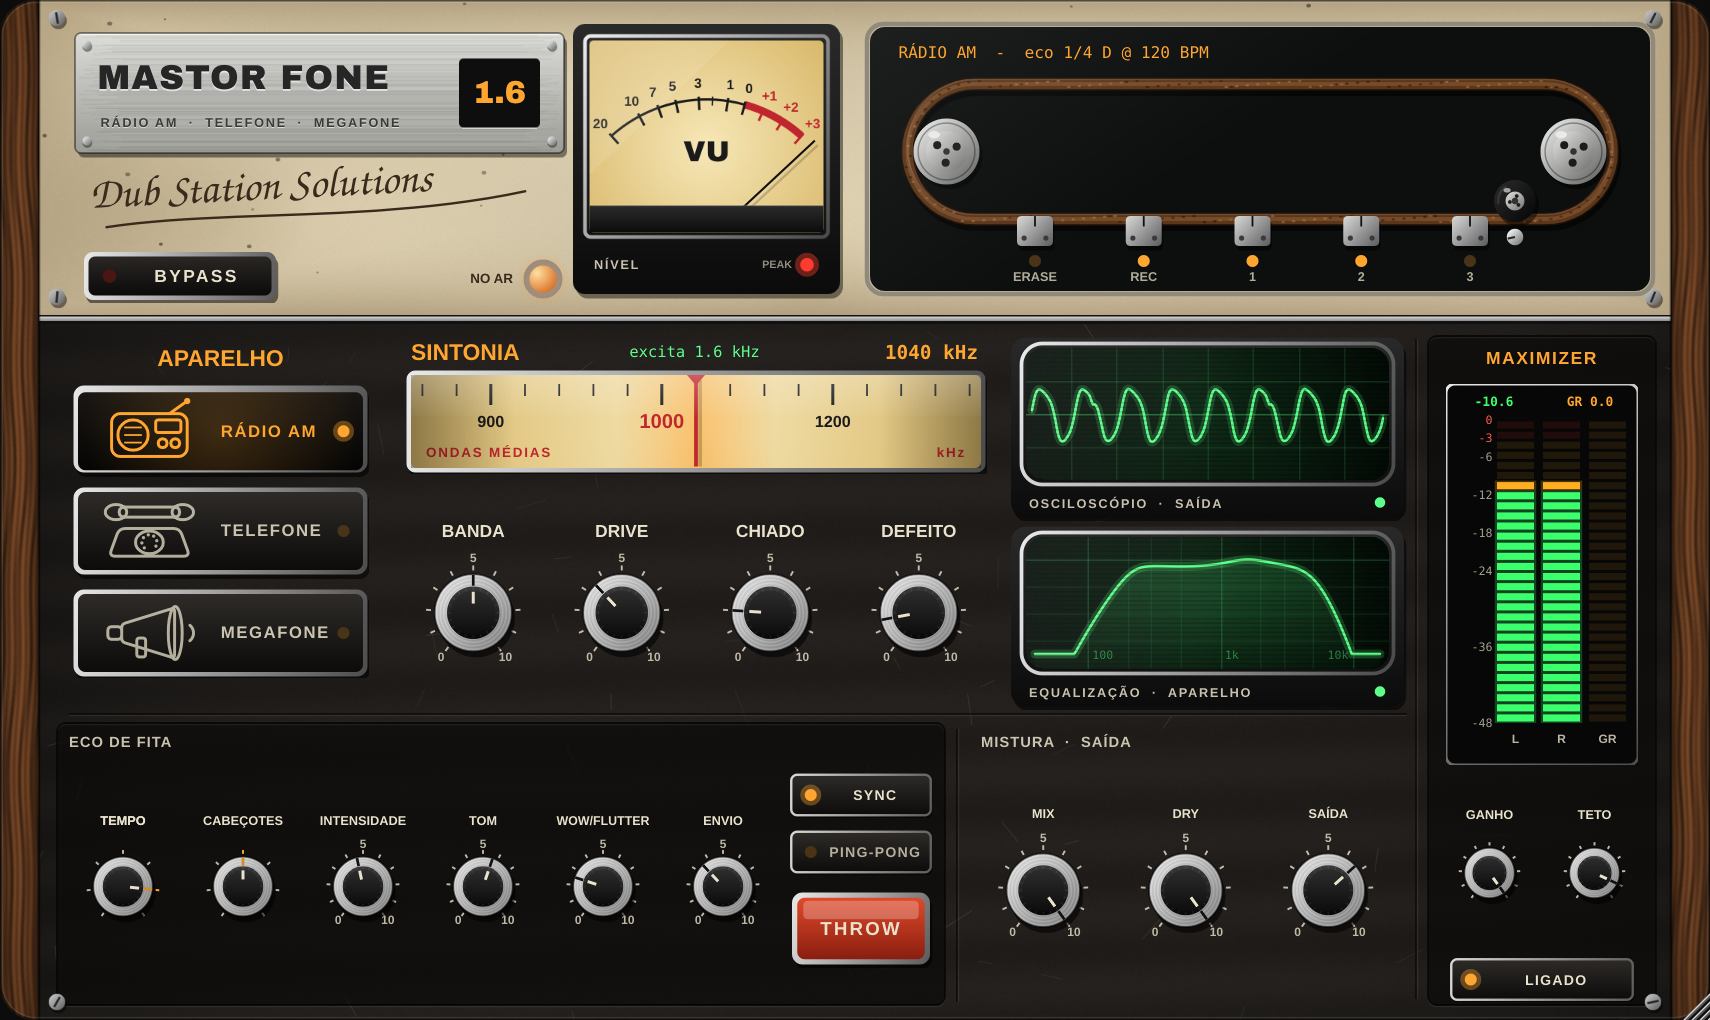
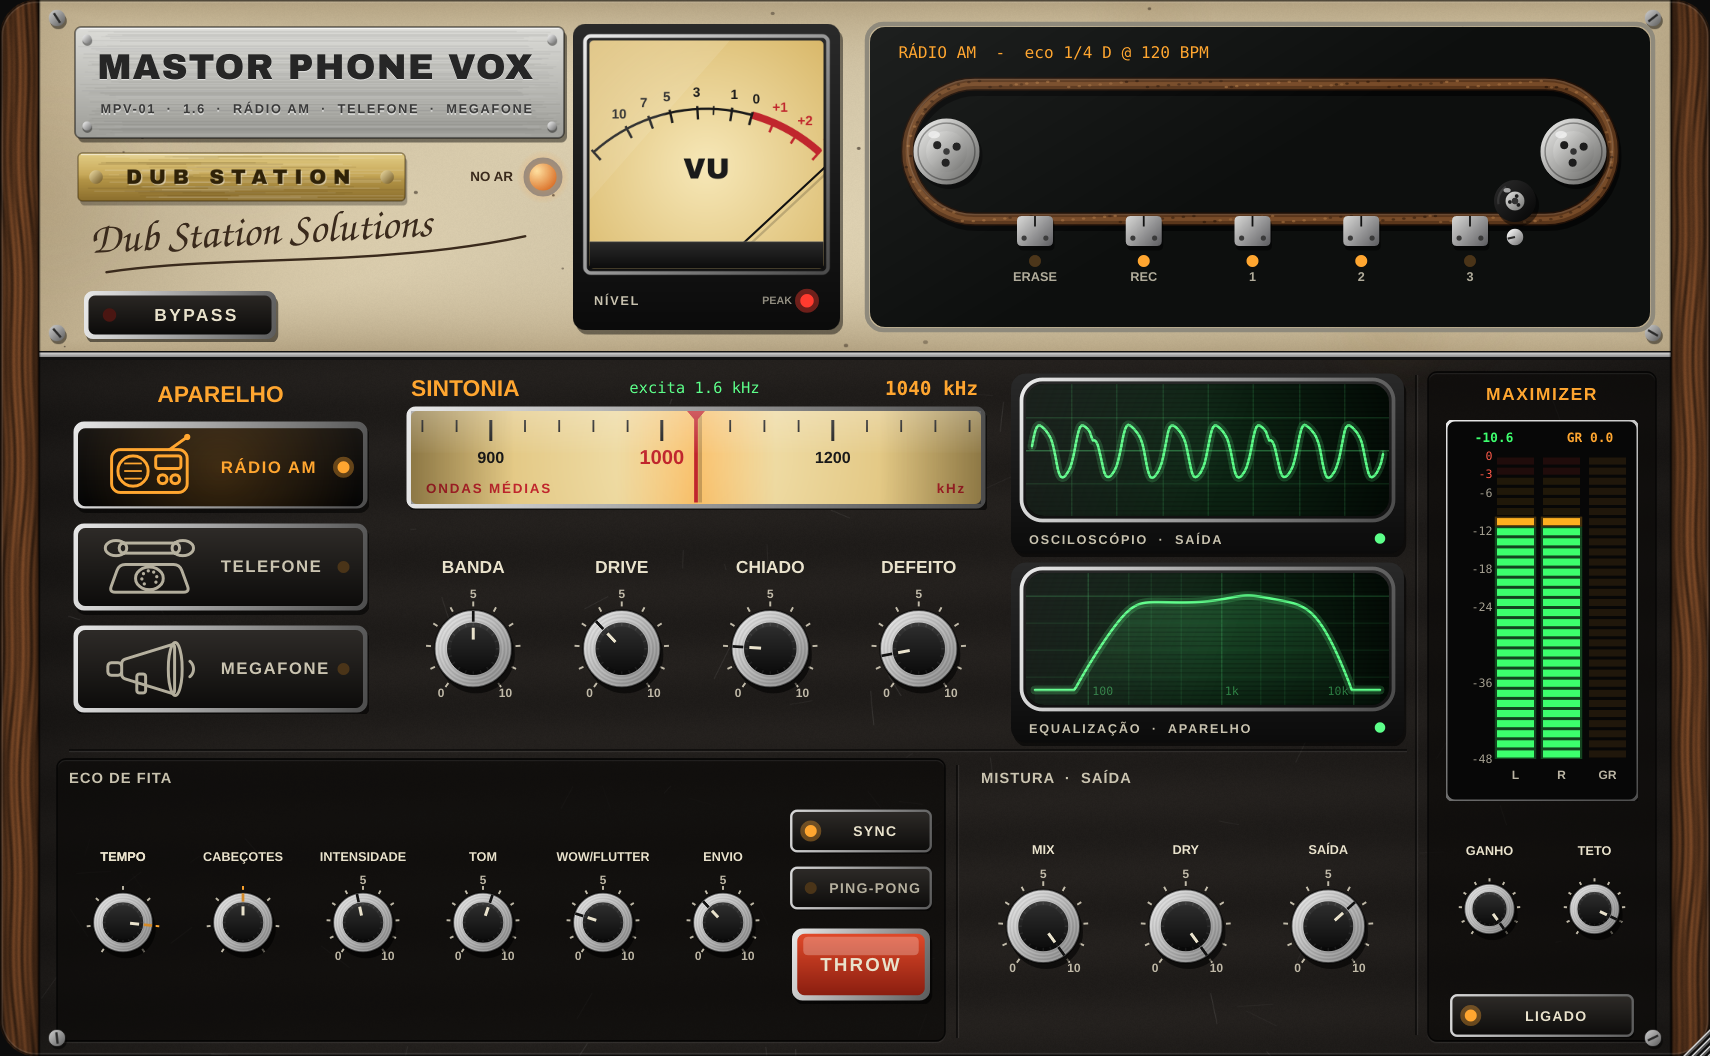
Mastor Phone Vox MPV-01 1.6 (antigo Mastor Fone)
- Novo nome do plugin, dos arquivos (.vst3/.component/.app) e dos zips
  (MastorPhoneVox-Windows/macOS.zip); release própria MPV-01-<versão>
- Códigos do plugin mantidos: projetos com o Mastor Fone abrem normalmente
- Plaqueta com o nome e MPV-01 · 1.6, plaquinha de latão DUB STATION
  (padrão da linha) e cabeçalho um pouco mais alto
- README e notas da release

Claude-Session: https://claude.ai/code/session_01DJAeyXvUbq8XtquW6CP987

diff --git a/MastorFone/Source/StationPanel.cpp b/MastorFone/Source/StationPanel.cpp
@@ -11,7 +11,8 @@ const Colour amber   (0xffffa630);
 const Colour lampOff (0xff4a3418);
 
 constexpr int kWood = 26;
-constexpr int kTopH = 212;
+constexpr const char* kVersion = "1.6";
+constexpr int kTopH = 236;
 
 // escala do VU: linear em tensão de -20 VU a +3 VU, ponteiro abrindo ±42°
 constexpr float kVuSwing = 0.7330f;
@@ -816,17 +817,17 @@ void StationPanel::resized()
 {
     auto content = getLocalBounds().reduced (kWood, 0);
     topPanel = content.removeFromTop (kTopH);
-    plateArea = { (float) topPanel.getX() + 24.0f, 22.0f, 326.0f, 80.0f };
+    plateArea = { (float) topPanel.getX() + 24.0f, 18.0f, 326.0f, 74.0f };
     {
         auto tp = topPanel;
         tp.removeFromLeft (350);
         vuArea = tp.removeFromLeft (190).reduced (6, 16);
         tapeWin = tp.reduced (14, 18);
     }
-    lampPos = { plateArea.getRight() - 14.0f, (float) topPanel.getBottom() - 26.0f };
+    lampPos = { plateArea.getRight() - 14.0f, plateArea.getBottom() + 26.0f };
     status.setBounds (tapeWin.getX() + 14, tapeWin.getY() + 8, tapeWin.getWidth() - 28, 18);
     // BYPASS grande no painel de cima, ao lado da lâmpada NO AR
-    bypassBtn.button.setBounds ((int) plateArea.getX() + 4, topPanel.getBottom() - 46, 132, 36);
+    bypassBtn.button.setBounds ((int) plateArea.getX() + 4, topPanel.getBottom() - 44, 132, 36);
 
     auto rows = content.reduced (8, 0).withTrimmedTop (10).withTrimmedBottom (8);
 
@@ -963,22 +964,24 @@ void StationPanel::paint (Graphics& g)
         g.setColour (c);
         g.drawText (t, r, j);
     };
-    g.setFont (mf::title (25.0f).withExtraKerningFactor (0.03f));
-    engraved ("MASTOR FONE", { pl.getX() + 15, pl.getY() + 10, pl.getWidth() - 86, 40 }, Justification::centredLeft, Colour (0xff262626));
+    // nome completo (a fonte encolhe até caber) + modelo e versão
+    {
+        const String title ("MASTOR PHONE VOX");
+        const float maxW = pl.getWidth() - 34.0f;
+        float fs = 27.0f;
+        while (fs > 14.0f && GlyphArrangement::getStringWidth (mf::title (fs).withExtraKerningFactor (0.03f), title) > maxW)
+            fs -= 0.5f;
+        g.setFont (mf::title (fs).withExtraKerningFactor (0.03f));
+        engraved (title, { pl.getX() + 15, pl.getY() + 9, maxW + 4, 36 }, Justification::centredLeft, Colour (0xff262626));
+    }
     g.setFont (bold (9.5f).withExtraKerningFactor (0.12f));
-    engraved (String::fromUTF8 ("RÁDIO AM  ·  TELEFONE  ·  MEGAFONE"), { pl.getX() + 17, pl.getY() + 53, pl.getWidth() - 96, 14 },
-              Justification::centredLeft, Colour (0xff3a3a3a));
-    const auto inset = Rectangle<float> (pl.getRight() - 70, pl.getY() + 17, 54, 46);
-    g.setFont (mf::title (23.0f));
-    g.setColour (amber.withAlpha (0.35f));
-    g.drawText ("1.6", inset.expanded (1.0f), Justification::centred);
-    g.setColour (amber);
-    g.drawText ("1.6", inset, Justification::centred);
+    engraved (String::fromUTF8 ("MPV-01  ·  ") + kVersion + String::fromUTF8 ("  ·  RÁDIO AM  ·  TELEFONE  ·  MEGAFONE"),
+              { pl.getX() + 17, pl.getY() + 48, pl.getWidth() - 30, 14 }, Justification::centredLeft, Colour (0xff3a3a3a));
 
     // assinatura "Dub Station Solutions" em tinta marrom, com traço
     {
         Graphics::ScopedSaveState ss (g);
-        const auto sp = Point<float> (pl.getX() + 10, pl.getBottom() + 4);
+        const auto sp = Point<float> (pl.getX() + 10, pl.getBottom() + 44);
         g.addTransform (AffineTransform::rotation (-0.05f, sp.x, sp.y + 26));
         g.setColour (ink);
         g.setFont (mf::script (38.0f));
@@ -1354,11 +1357,44 @@ void StationPanel::renderBackground()
             g.setGradientFill (ColourGradient (Colour (0xfff4f4f4), rv.x - 3, rv.y - 3, Colour (0xff6a6a6a), rv.x + 3, rv.y + 3, false));
             g.fillEllipse (rv.x - 3.0f, rv.y - 3.0f, 6.0f, 6.0f);
         }
-        const auto inset = Rectangle<float> (pl.getRight() - 70, pl.getY() + 17, 54, 46);
-        g.setColour (Colour (0xff0e0e0e));
-        g.fillRoundedRectangle (inset, 3.0f);
-        g.setColour (Colours::white.withAlpha (0.5f));
-        g.drawLine (inset.getX() + 2, inset.getBottom() + 0.5f, inset.getRight() - 2, inset.getBottom() + 0.5f, 1.0f);
+    }
+
+    {   // plaquinha de latão "DUB STATION", padrão da linha Dub Station
+        const auto pl = plateArea;
+        Random rng (77);
+        const auto f = mf::title (15.0f).withExtraKerningFactor (0.30f);
+        const String t ("DUB STATION");
+        const float tw = GlyphArrangement::getStringWidth (f, t);
+        auto gp = Rectangle<float> (pl.getX() + 2.0f, pl.getBottom() + 10.0f, tw + 64.0f, 32.0f);
+        g.setColour (Colours::black.withAlpha (0.28f));
+        g.fillRoundedRectangle (gp.translated (1.5f, 3.0f), 3.0f);
+        ColourGradient brass (Colour (0xffe3cd85), gp.getX(), gp.getY(), Colour (0xff8a6d2c), gp.getX(), gp.getBottom(), false);
+        brass.addColour (0.45, Colour (0xffc7a95a));
+        brass.addColour (0.55, Colour (0xffb39446));
+        g.setGradientFill (brass);
+        g.fillRoundedRectangle (gp, 3.0f);
+        for (int i = 0; i < 70; ++i)
+        {
+            const float yy = gp.getY() + 1.0f + rng.nextFloat() * (gp.getHeight() - 2.0f);
+            const float x0 = gp.getX() + rng.nextFloat() * gp.getWidth() * 0.5f;
+            g.setColour ((rng.nextBool() ? Colours::white : Colour (0xff5a4316)).withAlpha (0.06f + rng.nextFloat() * 0.08f));
+            g.drawHorizontalLine ((int) yy, x0, jmin (gp.getRight() - 1.0f, x0 + 20.0f + rng.nextFloat() * gp.getWidth() * 0.6f));
+        }
+        g.setColour (Colours::white.withAlpha (0.55f));
+        g.drawLine (gp.getX() + 2, gp.getY() + 1, gp.getRight() - 2, gp.getY() + 1, 1.0f);
+        g.setColour (Colour (0xff3d2c0c).withAlpha (0.55f));
+        g.drawRoundedRectangle (gp, 3.0f, 0.8f);
+        for (float rx : { gp.getX() + 12.0f, gp.getRight() - 12.0f })
+        {
+            const auto rv = Rectangle<float> (9, 9).withCentre ({ rx, gp.getCentreY() });
+            g.setGradientFill (ColourGradient (Colour (0xfff0dfa6), rv.getX(), rv.getY(), Colour (0xff6b5220), rv.getRight(), rv.getBottom(), false));
+            g.fillEllipse (rv);
+        }
+        g.setFont (f);
+        g.setColour (Colours::white.withAlpha (0.45f));
+        g.drawText (t, gp.translated (0.8f, 1.0f), Justification::centred);
+        g.setColour (Colour (0xff2e2108));
+        g.drawText (t, gp, Justification::centred);
     }
 
     drawVuFace (g);

diff --git a/MastorFone/Source/PluginEditor.h b/MastorFone/Source/PluginEditor.h
@@ -127,7 +127,7 @@ public:
     void paint (juce::Graphics&) override;
     void resized() override;
 
-    static constexpr int kW = 1140, kH = 680;
+    static constexpr int kW = 1140, kH = 704;
 
 private:
     struct Knob

diff --git a/MastorFone/README.md b/MastorFone/README.md
@@ -1,17 +1,17 @@
-# Mastor Fone 1.6 — voz de aparelho antigo 📻☎📣
+# Mastor Phone Vox MPV-01 1.6 — voz de aparelho antigo 📻☎📣
 
 *Dub Station Solutions*
 
 ← [Voltar para a página inicial do repositório](../README.md)
 
-**[⬇ Baixar a versão mais nova](https://github.com/dubmastor/DubMastor-DubStation-/releases/latest)**
+**Downloads:** [Windows](https://github.com/dubmastor/DubMastor-DubStation-/releases/download/MPV-01-1.6/MastorPhoneVox-Windows.zip) · [Mac](https://github.com/dubmastor/DubMastor-DubStation-/releases/download/MPV-01-1.6/MastorPhoneVox-macOS.zip) (release [MPV-01-1.6](https://github.com/dubmastor/DubMastor-DubStation-/releases/tag/MPV-01-1.6))
 
 Efeito para voz que imita três aparelhos: **RÁDIO AM**, **TELEFONE antigo** e **MEGAFONE**, com o mesmo **eco de fita** do Big Knob.
 Formatos: **VST3** (Windows/macOS, para o Cubase), **AU** (macOS) e **Standalone**.
 
-![Interface do Mastor Fone](docs/interface.png)
+![Interface do Mastor Phone Vox MPV-01](docs/interface.png)
 
-Visual no mesmo acabamento do Dub Station 2.1: esmalte creme, plaqueta de alumínio, VU, janela da fita, botões de alumínio e laterais de madeira.
+Antigo **Mastor Fone** (projetos antigos abrem normalmente). Visual no mesmo acabamento do Dub Station 2.1, com a plaquinha de latão DUB STATION: esmalte creme, plaqueta de alumínio, VU, janela da fita, botões de alumínio e laterais de madeira.
 
 Cadeia: entrada (somada em mono) → aparelho → seco + eco de fita (estéreo) → maximizer → saída.
 
@@ -51,9 +51,9 @@ A janela é redimensionável: arraste o canto inferior direito (50% a 150%). Dup
 ## Instalação
 Igual aos outros plugins: veja a [página inicial](../README.md#instalação-no-cubase). No Mac, libere com:
 ```
-xattr -dr com.apple.quarantine ~/Library/Audio/Plug-Ins/VST3/"Mastor Fone.vst3"
+xattr -dr com.apple.quarantine ~/Library/Audio/Plug-Ins/VST3/"Mastor Phone Vox MPV-01.vst3"
 ```
-No Cubase ele aparece como **Mastor Fone**, do fabricante **DubMastor**.
+No Cubase ele aparece como **Mastor Phone Vox MPV-01**, do fabricante **DubMastor**.
 
 ## Estrutura
 - `Source/LoFiVoice.h` — os três aparelhos (filtros SVF, saturações, ruídos, defeitos)

diff --git a/MastorFone/RELEASE_NOTES.md b/MastorFone/RELEASE_NOTES.md
@@ -1,0 +1,15 @@
+# Mastor Phone Vox MPV-01 1.6
+
+Efeito para voz da linha Dub Station (antigo **Mastor Fone**): rádio AM, telefone antigo e megafone, com o eco de fita e o maximizer do Big Knob.
+
+**Downloads**
+- Windows: `MastorPhoneVox-Windows.zip` (VST3 + standalone)
+- Mac: `MastorPhoneVox-macOS.zip` (VST3, AU + standalone, Intel e Apple Silicon)
+
+**Novidades**
+- Novo nome: Mastor Phone Vox MPV-01, com a plaquinha de latão DUB STATION
+- Projetos com o Mastor Fone abrem normalmente (os códigos do plugin não mudaram)
+- Maximizer com VU digital de LEDs, curva de equalização em tela verde, dial de ondas médias que gira sob a agulha e fita animada
+
+**Mac:** depois de copiar, libere com
+`xattr -dr com.apple.quarantine ~/Library/Audio/Plug-Ins/VST3/"Mastor Phone Vox MPV-01.vst3"`
